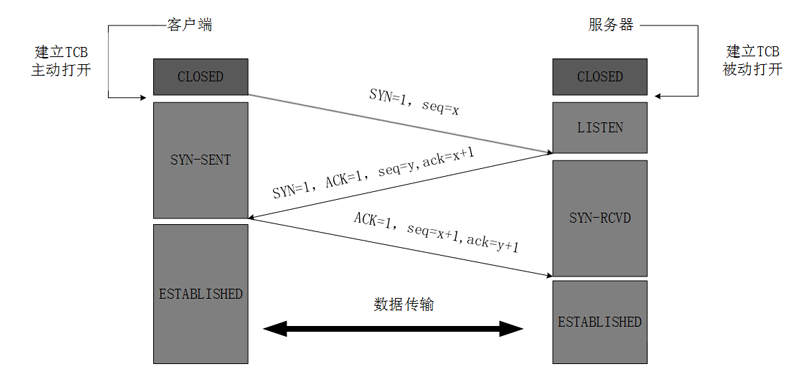
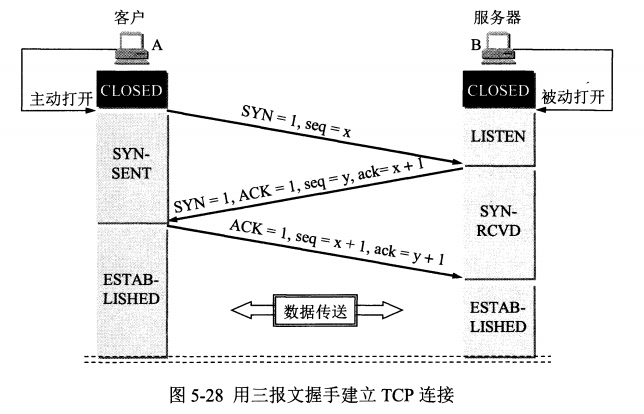
use old version of images

Changed region(s): [[0.0311, 0.0291, 0.9938, 0.9894], [0.4658, 0.2328, 0.4969, 0.2619]]

diff --git a/README.md b/README.md
@@ -71,7 +71,7 @@
 
 - [epoll](./QA.md#epoll)
 
-### [数据结构与算法]()
+### [数据结构与算法](./QA.md#数据结构与算法)
 
 - [衡量、比较算法优劣的指标](./QA.md#衡量比较算法优劣的指标)
 
